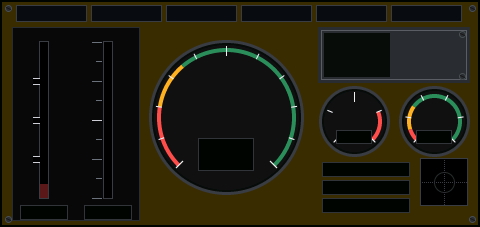
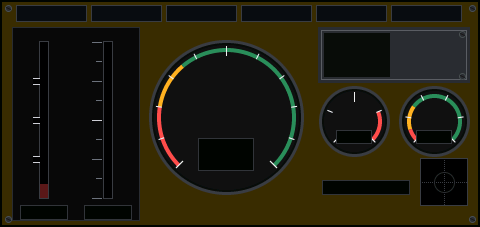
The pack and sortie timers in the top bar, POWER level with the cyclic box
- Timers, a new top bar widget: this pack's time with the motor on (timer 1) over the sortie's (timer 2), "1h07" past
  an hour so it fits the zone. topbar_timers.py puts it in the M2 EVO's empty zone 3, between Link and Radio Info, and
  deploy.sh runs it.
- The Cockpit no longer shows PACK and SORTIE; POWER moves down a row, level with the middle of the cyclic's box (the
  panel picture drawn again to match). The Cockpit still starts the sortie timer again each day.

Changed region(s): [[0.6562, 0.8634, 0.875, 0.9559], [0.6562, 0.7093, 0.875, 0.8018]]

diff --git a/src/cockpit.ts b/src/cockpit.ts
@@ -11,8 +11,8 @@ const name = 'Cockpit';
  *   used, against the size of the pack picked with the 6-position buttons (the mAh left under the %, the pack under
  *   the gauge), saying the % left every 10% and warning when a pack is not full (mAhRe's sounds);
  * - the model's data plate (picture, name, cells), the amps (with the pack's peak) and volts a cell as gauges, the
- *   power, the time with the motor on this pack (timer 1) and today (timer 2, the sortie), and the cyclic: where the
- *   right stick is, to check it.
+ *   power, and the cyclic: where the right stick is, to check it. The timers (this pack's, the sortie's) are in the
+ *   top bar (the Timers widget); this one starts the sortie's again each day.
  * It is built from EdgeTX's LVGL objects (useLvgl): the radio keeps them on the screen and redraws only what changes,
  * where a widget drawing with lcd calls redraws the whole screen 20 times a second. Everything that never moves is two
  * pictures beside this file (scripts/cockpit-panel.mjs draws them at the positions used here); the rest are objects
@@ -46,9 +46,6 @@ type View = {
   elevator: number;
   packName: string;
   packMah: number;
-  /** Seconds with the motor on: this pack (timer 1), today (timer 2). */
-  packTime: number;
-  sortieTime: number;
   lights: Light[];
 };
 type Widget = {
@@ -238,8 +235,6 @@ function look(widget: Widget): void {
   view.degrees = (output(5) / 1024) * (widget.options.PitchRange || 12);
   view.aileron = getValue('ail');
   view.elevator = getValue('ele');
-  view.packTime = model.getTimer(0).value ?? 0;
-  view.sortieTime = model.getTimer(1)?.value ?? 0;
 
   // SAFE lit green while disarmed, ARMED amber; THR ON amber while the throttle is on (out of hold), THR OFF dark in
   // hold; LEVEL blue with white letters, as the flight mode tile in the top bar, while self-level is on.
@@ -301,16 +296,6 @@ function label(
     object.align = RIGHT;
   }
   return object;
-}
-
-/** m:ss, or h:mm:ss past an hour. */
-function clock(seconds: number): string {
-  const whole = math.max(0, math.floor(seconds));
-  const hours = math.floor(whole / 3600);
-  const minutes = math.floor((whole % 3600) / 60);
-  return hours > 0
-    ? `${hours}:${string.format('%02d:%02d', minutes, whole % 60)}`
-    : `${minutes}:${string.format('%02d', whole % 60)}`;
 }
 
 type Dial = {
@@ -618,12 +603,8 @@ function objects(widget: Widget): LvglObject[] {
     label(434, 137, () => (view.powered ? string.format('%.2f', view.cell) : '--'), SMLSIZE, DIGITS, CENTER),
   );
 
-  // The power, and the time with the motor on: this pack, and the whole sortie (today).
-  list.push(
-    ...readout(162, 'POWER', () => `${math.floor(view.watts + 0.5)} W`),
-    ...readout(180, 'PACK', () => clock(view.packTime)),
-    ...readout(198, 'SORTIE', () => clock(view.sortieTime)),
-  );
+  // The power, level with the cyclic's box (the timers are in the top bar).
+  list.push(...readout(180, 'POWER', () => `${math.floor(view.watts + 0.5)} W`));
 
   // The cyclic (the right stick): a dot where aileron and elevator put it, their values under it (its box, cross and
   // ring are in the panel picture).
@@ -678,8 +659,6 @@ function create(zone: Zone, options: Options): Widget {
       elevator: 0,
       packName: '',
       packMah: 0,
-      packTime: 0,
-      sortieTime: 0,
       lights,
     },
   };

diff --git a/src/top-timers.ts b/src/top-timers.ts
@@ -1,0 +1,36 @@
+const name = 'Timers';
+
+/**
+ * The model's two timers in the top bar (74 × 39): this pack's time with the motor on (timer 1) over the sortie's,
+ * today's (timer 2, started again each day by the Cockpit). Past an hour a time reads "1h07", to fit.
+ */
+const options: any[] = [];
+
+type Widget = {zone: Zone};
+
+function create(zone: Zone): Widget {
+  return {zone};
+}
+
+function update(): void {}
+
+function clock(seconds: number): string {
+  const whole = math.max(0, math.floor(seconds));
+  const hours = math.floor(whole / 3600);
+  const minutes = math.floor((whole % 3600) / 60);
+  return hours > 0 ? `${hours}h${string.format('%02d', minutes)}` : `${minutes}:${string.format('%02d', whole % 60)}`;
+}
+
+function draw(width: number): void {
+  const grey = lcd.RGB(0x9aa3ad);
+  lcd.drawText(4, 4, 'Pack', TINSIZE + grey);
+  lcd.drawText(width - 3, 1, clock(model.getTimer(0)?.value ?? 0), SMLSIZE + RIGHT + lcd.RGB(0x7cd69a));
+  lcd.drawText(4, 23, 'Sortie', TINSIZE + grey);
+  lcd.drawText(width - 3, 20, clock(model.getTimer(1)?.value ?? 0), SMLSIZE + RIGHT + lcd.RGB(0xeeeeee));
+}
+
+function refresh(widget: Widget): void {
+  draw(widget.zone.w);
+}
+
+export {refresh, name, create, update, options};

diff --git a/scripts/topbar_timers.py b/scripts/topbar_timers.py
@@ -1,0 +1,32 @@
+"""Puts the Timers widget (this pack's time and the sortie's) in the M2 EVO's top bar (model20.yml), in its empty zone 3
+between Link and Radio Info: the Cockpit no longer shows them. Skips a model that has it already (deploy.sh runs every
+script on the radio each time). Backs the file up first.
+Usage: topbar_timers.py <model20.yml> [<backup folder>]"""
+import shutil
+import sys
+from pathlib import Path
+
+model = Path(sys.argv[1])
+raw = model.read_bytes().decode('utf-8')
+newline = '\r\n' if '\r\n' in raw else '\n'
+text = raw.replace('\r\n', '\n')
+assert '   name: "M2 EVO"\n' in text, 'not the M2 EVO model'
+
+if 'widgetName: "Timers"' in text:
+    print(f'{model}: the timers are in the top bar already')
+    sys.exit(0)
+
+topbar = text[text.index('topbarData: \n'):text.index('topbarWidgetWidth:')]
+assert '\n      3:\n' not in topbar, "the top bar's zone 3 is taken"
+# Zone 4 (Radio Info) follows the empty zone 3: the timers go just before it.
+anchor = '      4:\n         widgetName: "Radio Info"\n'
+assert topbar.count(anchor) == 1, 'no Radio Info in zone 4'
+updated = topbar.replace(anchor, '      3:\n         widgetName: "Timers"\n         widgetData: \n' + anchor)
+text = text.replace(topbar, updated, 1)
+
+if len(sys.argv) > 2:
+    backup = Path(sys.argv[2])
+    backup.mkdir(parents=True, exist_ok=True)
+    shutil.copy2(model, backup / model.name)
+model.write_bytes(text.replace('\n', newline).encode('utf-8'))
+print(f'{model}: the Timers widget in the top bar, between Link and Radio Info')

diff --git a/README.md b/README.md
@@ -22,8 +22,8 @@ out of git (`backups/`, `update-2.12.5/`).
   guarded in hold) and the pitch as a collective against a degree scale, the battery as a fuel gauge (from the charge a
   pack had when plugged in, by its volts a cell, less the mAh used; the mAh left under the %, the % said every 10% with
   mAhRe's sounds, the pack the 6-position buttons pick under it), the model's data plate, amps and the average volts a
-  cell (the pack's voltage over its cells) as gauges, the power, the time with the motor on this pack (PACK, timer 1)
-  and today (SORTIE, timer 2), and the right stick as a cyclic dot. The panel turns dark yellow while the motor can
+  cell (the pack's voltage over its cells) as gauges, the power, and the right stick as a cyclic dot (the timers are
+  in the top bar). The panel turns dark yellow while the motor can
   spin, LEVEL lights blue, RESCUE and TELE white on dark red. Built from EdgeTX's LVGL objects, so the radio redraws
   only what changes, and the screen keeps up at 20 frames a second (EdgeTX's most).
 - **ArmedModel:** the arming state at a glance: SAFE (grey-green), ARMED (amber, throttle cut) or LIVE (red, the border
@@ -42,6 +42,8 @@ out of git (`backups/`, `update-2.12.5/`).
   is held.
 - **Session:** packs flown and time in the air today, kept across power cycles in global variables 1 to 3; both
   small in the top bar.
+- **Timers** (in the top bar): the time with the motor on this pack (timer 1) over the sortie's, today's (timer 2),
+  which the Cockpit starts again each day.
 - **mAhRe** (RCdiy's Lua in `sd-card/WIDGETS/mAhRe`, edited): battery left in mAh and %, the pack's size and name
   taken from the 6-position button pressed for it (`PACKS` at its top, the same as Pack's), not from GV7. Redrawn in
   the other widgets' colours: a bar of what is left with its %, volts a cell, NOT FULL when the pack was not. Its
@@ -62,7 +64,7 @@ timer 2 for the sortie (`sortie_timer.py`), the low-cell alarm only with a pack 
 real sag, 3.30 V a cell for 5 s (`cell_alarm_sag.py`), a rescue that climbs after 0.1 s of flat pitch, not 0.2 s
 (`rescue_delay.py`), the receiver's sensors back in their slots when the radio finds them under new IDs
 (`sensor_ids.py`), a theme of its own, Cockpit, with a dark top bar and readable menus (`cockpit_theme.py`, FM2M
-Concrete stays to go back to). Then it copies the built widgets and mAhRe from `sd-card/`. It backs up what it changes
+Concrete stays to go back to), the Timers widget in the top bar's empty zone (`topbar_timers.py`). Then it copies the built widgets and mAhRe from `sd-card/`. It backs up what it changes
 in `backups/<date>` first, and names any model the radio changed since, to copy into `sd-card/MODELS`. A new model
 change is a new script, run on `sd-card/` and added to the deploy.
 
